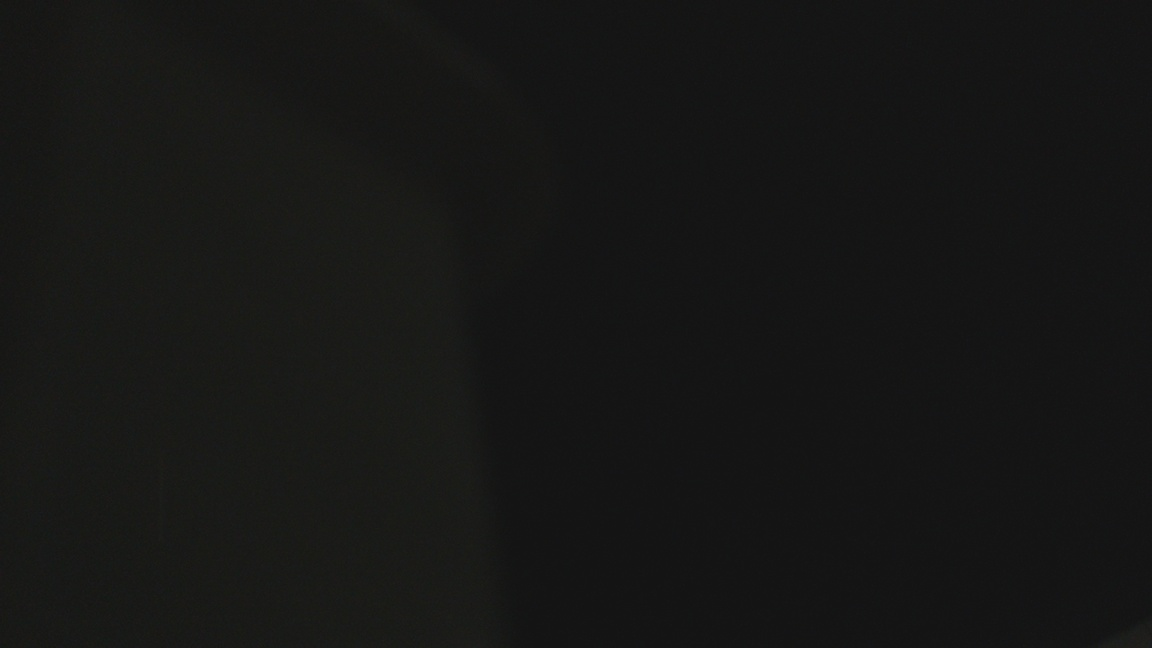
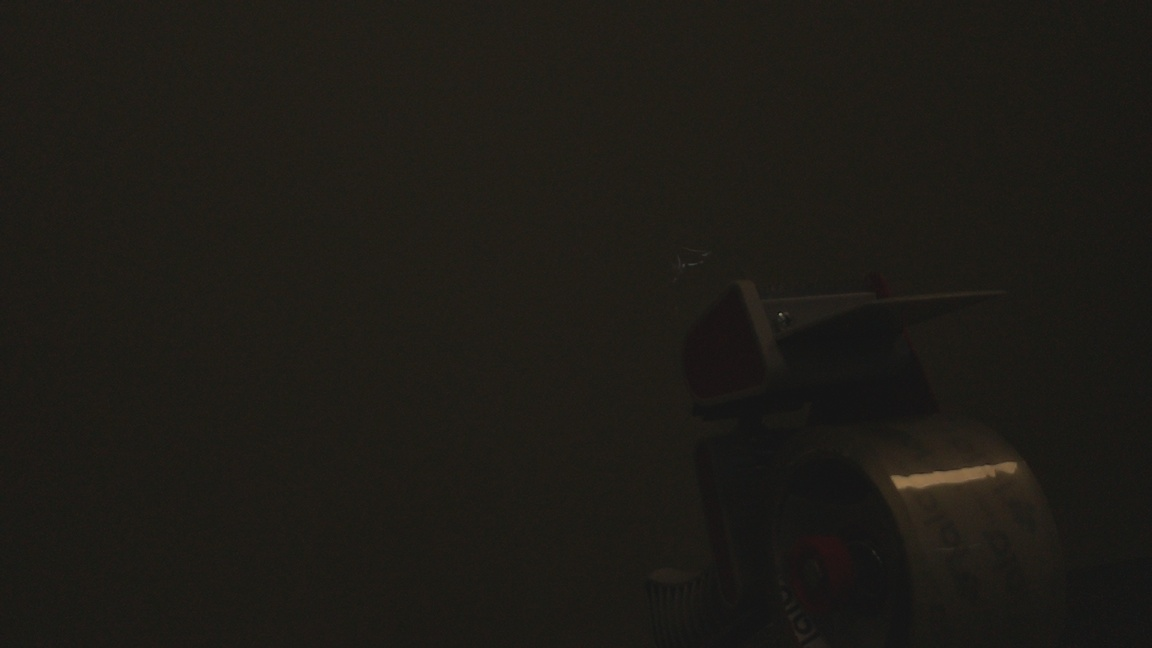
double object call fix

Changed region(s): [[0.75, 0.679, 0.9062, 0.8025], [0.625, 0.4321, 0.6562, 0.463]]

diff --git a/app/main.py b/app/main.py
@@ -16,7 +16,7 @@ class Mask():
     def __init__(self) -> None:
         self.t_start = time.time()
         # Physical setup
-        self.dist = 53.0           # Distance betweeen cameras
+        self.dist = 40.0           # Distance betweeen cameras
 
         # Image adjustments:
         self.alpha = 1.45          # contrast
@@ -42,14 +42,14 @@ class Mask():
         left = self.image_0
         right = self.image_1
         dist = self.dist
-        #self.savefig(left, "left_stock.jpg")
-        #self.savefig(right, "right_stock.jpg")
+        self.savefig(left, "left_stock.jpg")
+        self.savefig(right, "right_stock.jpg")
         left_image =  Contoured(left)
         right_image = Contoured(right)
-        left_image.contoured()
-        right_image.contoured()
-#        self.savefig(left_image.contoured(), "left.jpg")
-#        self.savefig(right_image.contoured(), "right.jpg")
+        l_cont = left_image.contoured()
+        r_cont = right_image.contoured()
+        self.savefig(l_cont, "left.jpg")
+        self.savefig(r_cont, "right.jpg")
 
         left = left_image.properties()
         right = right_image.properties()

diff --git a/app/server.py b/app/server.py
@@ -25,13 +25,13 @@ def serve_dimensions(input):
     print("Calculating for: ",input)
     awaiting_picture.put(input)
     # To handle the possibility of a camera failure / contouring failure
-    try:
-        pictures = picture_loop()
-        dict = process_images(pictures)
-        return dict
-    except Exception as e:
-        print(e)
-        return make_response(str(e), 503)
+#    try:
+    pictures = picture_loop()
+    dict = process_images(pictures)
+    return dict
+#    except Exception as e:
+#        print(e)
+#        return make_response(str(e), 503)
 
 
 def picture_loop():
